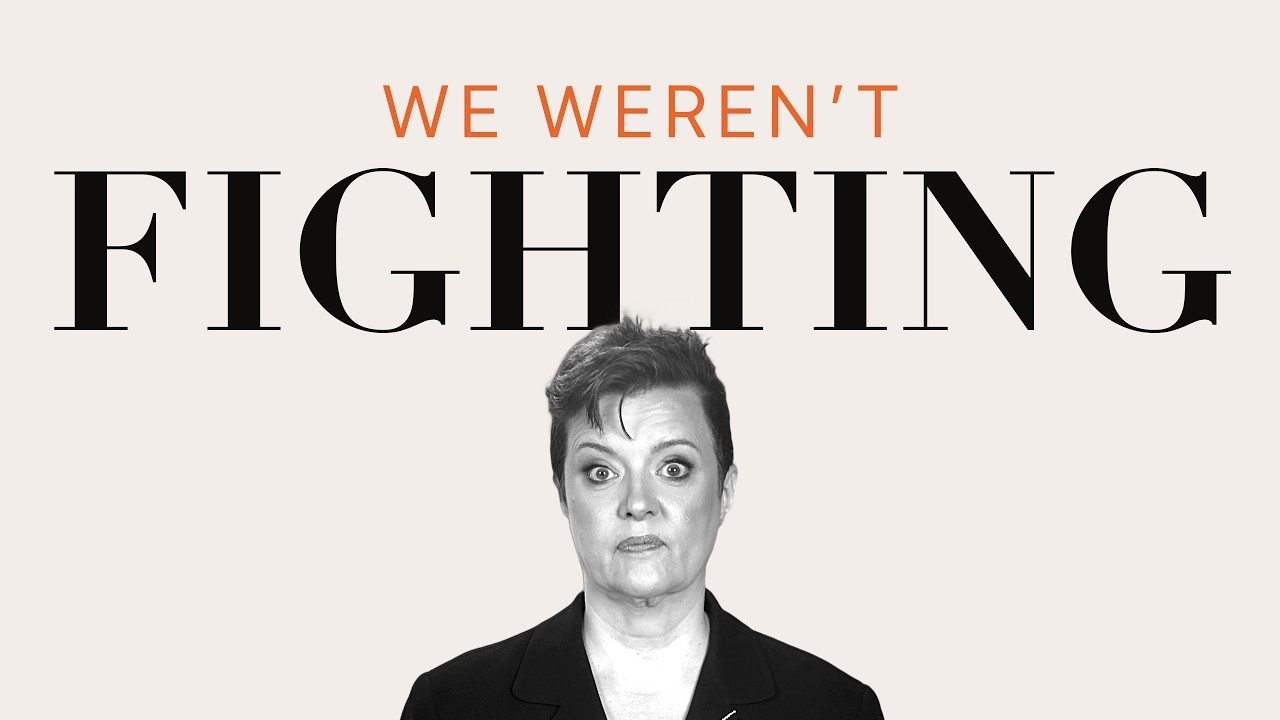
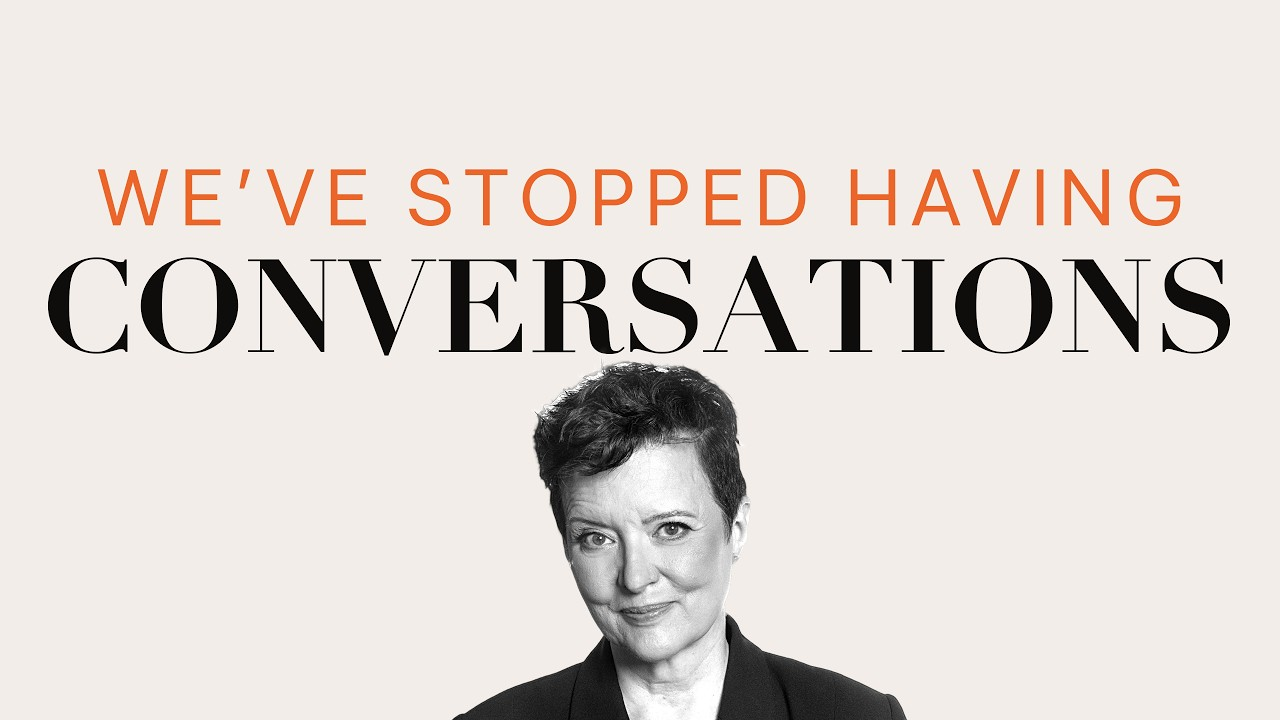
Events, latest talk and view counts, 2026-10-12

Changed region(s): [[0.0312, 0.0917, 0.9688, 1.0]]

diff --git a/latest.js b/latest.js
@@ -1,2 +1,2 @@
 /* Oxford Talks: the newest talk or podcast episode on YouTube. Written daily by scripts/sync-latest.py in github.com/wbkox/oxfordtalks-events; read by the homepage of oxfordtalks.io. */
-window.OT_LATEST={"yt":"QGXUB6UkSso","kind":"talk","href":"https://www.oxfordtalks.io/speakers/vanessa-cardenas","title":"How Couples Grow Apart Without Realizing It","name":"Vanessa Cardenas","date":"2026-10-06","dur":0,"fellow":false,"slug":"vanessa-cardenas","portrait":"https://cdn.prod.website-files.com/6a98597d3ec49edce285e7d2/6ac2a24d49ce0a78f85df381_6ac2a01fec4c01aed59e338d_portrait-vanessa-cardenas.jpeg","ch":[{"t":0,"l":"How did we just grow apart?"},{"t":100,"l":"I edited myself before I spoke"},{"t":121,"l":"We weren't fighting"},{"t":187,"l":"What the other person hears"},{"t":247,"l":"The conversation that disappeared"},{"t":284,"l":"\"I'm actually very lonely in this marriage\""},{"t":355,"l":"Normal from across the street"},{"t":410,"l":"The silence got there first"},{"t":444,"l":"Families and leadership teams do it too"},{"t":481,"l":"The conversation you keep almost having"},{"t":515,"l":"Can we talk about it?"},{"t":543,"l":"What disappeared first"}],"more":[{"yt":"ITmV2DDQ4-c","title":"AI will never replace human creativity","name":"Laraib Atta","slug":"laraib-atta","dur":589,"date":"2026-09-30"},{"yt":"DORUH_ZTatg","title":"20 Years of Building AI","name":"Mostafa Essa","slug":"mostafa-essa","dur":571,"date":"2026-09-22"},{"yt":"gtknewu-61o","title":"The Hidden Challenge of Organisational Transformation","name":"Hema Tallman","slug":"hema-tallman","dur":735,"date":"2026-08-28"},{"yt":"GFXBkl38S8o","title":"Re-Placed, Not Replaced","name":"Kari Zeller","slug":"kari-zeller","dur":974,"date":"2026-08-27"}],"poster":"https://wbkox.github.io/oxfordtalks-events/latest/QGXUB6UkSso-poster.jpg","sprite":null,"frames":40,"written":"2026-10-06T20:24:38Z"};
+window.OT_LATEST={"yt":"QGXUB6UkSso","kind":"talk","href":"https://www.oxfordtalks.io/speakers/vanessa-cardenas","title":"How Couples Grow Apart Without Realizing It","name":"Vanessa Cardenas","date":"2026-10-06","dur":600,"fellow":true,"slug":"vanessa-cardenas","portrait":"https://cdn.prod.website-files.com/6a98597d3ec49edce285e7d2/6acd3bf2b514c03c978f774d_6acd3aa3c6548560ff78a632_portrait-vanessa-cardenas-2.jpeg","ch":[{"t":0,"l":"How did we just grow apart?"},{"t":100,"l":"I edited myself before I spoke"},{"t":121,"l":"We weren't fighting"},{"t":187,"l":"What the other person hears"},{"t":247,"l":"The conversation that disappeared"},{"t":284,"l":"\"I'm actually very lonely in this marriage\""},{"t":355,"l":"Normal from across the street"},{"t":410,"l":"The silence got there first"},{"t":444,"l":"Families and leadership teams do it too"},{"t":481,"l":"The conversation you keep almost having"},{"t":515,"l":"Can we talk about it?"},{"t":543,"l":"What disappeared first"}],"more":[{"yt":"ITmV2DDQ4-c","title":"AI will never replace human creativity","name":"Laraib Atta","slug":"laraib-atta","dur":589,"date":"2026-09-30"},{"yt":"DORUH_ZTatg","title":"20 Years of Building AI","name":"Mostafa Essa","slug":"mostafa-essa","dur":571,"date":"2026-09-22"},{"yt":"gtknewu-61o","title":"The Hidden Challenge of Organisational Transformation","name":"Hema Tallman","slug":"hema-tallman","dur":735,"date":"2026-08-28"},{"yt":"GFXBkl38S8o","title":"Re-Placed, Not Replaced","name":"Kari Zeller","slug":"kari-zeller","dur":974,"date":"2026-08-27"}],"poster":"https://wbkox.github.io/oxfordtalks-events/latest/QGXUB6UkSso-poster.jpg?v=b801ef04","sprite":null,"frames":40,"written":"2026-10-12T20:25:09Z"};
